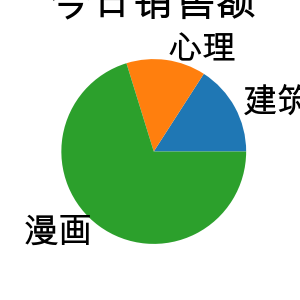
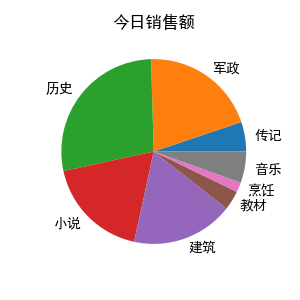
修复仓库端入库bug

diff --git a/client/BMT_client.py b/client/BMT_client.py
@@ -31,8 +31,8 @@ import time
 import sqlite3
 from matplotlib import pyplot as plt
 
-plt.rcParams['font.sans-serif'] = ['Arial Unicode MS']
-plt.rcParams['figure.dpi'] = 250
+plt.rcParams['font.sans-serif'] = ['SimHei']
+plt.rcParams['figure.dpi'] = 100
 _translate = QtCore.QCoreApplication.translate
 class main_window(QMainWindow):
     def __init__(self, parent=None):
@@ -637,7 +637,7 @@ class shop_window(QMainWindow):
             self.ui.today_profit.setStyleSheet("color:green")
         self.ui.today_profit.setText("今日利润：{}".format(today_profit))
         # 绘制图片今日销售额
-        plt.figure(figsize=(1.2,1.2))
+        plt.figure(figsize=(3,3))
         plot_data = ph_data.groupby(["books_type"])["sales_money"].agg(sum)
         plt.pie(plot_data.values,
                 labels = plot_data.index,
@@ -646,10 +646,10 @@ class shop_window(QMainWindow):
         plt.savefig('today_sales_money.png')
         plt.close()
         self.ui.today_sales_plot.setPixmap(QPixmap('today_sales_money.png'))
-        # 绘制图片今日销售额
-        plt.figure(figsize=(1.2,1.2))
-        plt.pie([100,100,100,2*sum(ph_data.sales_number),round(0.1*today_sales,2)],
-                labels = ['房租','水电','薪水','快递费','商品税'],
+        # 绘制图片今日支出
+        plt.figure(figsize=(3,3))
+        plt.pie([100,2*sum(ph_data.sales_number),100,round(0.1*today_sales,2),100],
+                labels = ['房租','快递费','水电','商品税','薪水'],
                 shadow = False)
         plt.title('今日支出')
         plt.savefig('today_pay_plot.png')
@@ -887,6 +887,20 @@ class storehouse_window(QMainWindow):
         self.ui.back.clicked.connect(self.main_window.show)
         self.ui.back.clicked.connect(self.close)
 
+        # 联系客服
+        self.ui.call_for_help.clicked.connect(self.call_for_help)
+
+
+    def call_for_help(self):
+        clipboard = QGuiApplication.clipboard()
+        clipboard.setText("huyan35@mail2.sysu.edu.cn")
+        self.ui.call_for_help.setText("已复制到剪切板")
+        self.time1 = QTimer(self)
+        self.time1.singleShot(1000,self.timer_TimeOut1)
+
+    def timer_TimeOut1(self):
+        self.ui.call_for_help.setText("联系客服(点我复制)")
+
     def add_row(self, books_type, books_name, purchase_price, current_selling_price, inventory):
         """在表格上添加一行新的内容"""
         row = self.ui.table.rowCount()  # 表格的行数
@@ -936,7 +950,6 @@ class storehouse_input_main_window(QMainWindow):
 
         # 定义入库信息
         self.ui.confirm.clicked.connect(self.inbound)
-        self.ui.confirm.clicked.connect(self.showMsg)
 
         # 定义取消按钮
         self.ui.cancel.clicked.connect(self.close)
@@ -947,63 +960,52 @@ class storehouse_input_main_window(QMainWindow):
         book_name_input = self.ui.book_name_input.text()
         purchase_price_input = self.ui.purchase_price_input.text()
         number_input = self.ui.number_input.text()
-        # 连接数据库
-        connect = sqlite3.connect('books_info.db')
-        cursor = connect.cursor()
-        # 查询是否已有此本书
-        sql = '''SELECT * FROM database WHERE books_name = ?'''
-        result = cursor.execute(sql, (book_name_input,))
-        data = result.fetchall()
-        # 有这本书，加上入库的数目
-        if len(data) > 0:
-            sql = '''UPDATE database SET inventory = inventory+? WHERE books_name = ? '''
-            cursor.execute(sql, (number_input, book_name_input,))
-        # 没有这本书名，生成新书条目
+        if book_type_input and book_name_input and purchase_price_input and number_input:
+            # 连接数据库
+            connect = sqlite3.connect('books_info.db')
+            cursor = connect.cursor()
+            # 查询是否已有此本书
+            sql = '''SELECT * FROM database WHERE books_name = ?'''
+            result = cursor.execute(sql, (book_name_input,))
+            data = result.fetchall()
+            # 有这本书，加上入库的数目
+            if len(data) > 0:
+                sql = '''UPDATE database SET inventory = inventory+? WHERE books_name = ? '''
+                cursor.execute(sql, (number_input, book_name_input,))
+            # 没有这本书名，生成新书条目
+            else:
+                sql = 'select * from database'
+                result = cursor.execute(sql)
+                data = result.fetchall()  # 生成data
+                # 写入数据
+                book_number = data[-1][1] + 1
+                book_type = book_type_input
+                book_name = book_name_input
+                purchase_price = int(purchase_price_input)
+                lowest_price = purchase_price * 1.1
+                current_selling_price = purchase_price * 2.85
+                sales_this_week = 0
+                cumulative_sales = 0
+                inventory = int(number_input)
+                cursor.execute('''INSERT INTO database(books_number,books_type,books_name,
+                purchase_price,lowest_price,current_selling_price,
+                sales_this_week,cumulative_sales,inventory)VALUES (?,?,?,?,?,?,?,?,?)''', (book_number, book_type, book_name,
+                                                                                           purchase_price, lowest_price, current_selling_price,
+                                                                                           sales_this_week, cumulative_sales, inventory,))
+            # 断开数据库
+            sql = '''SELECT * FROM database WHERE books_name = ?'''
+            result = cursor.execute(sql, (book_name_input,))
+            data = result.fetchall()
+            QMessageBox.information(self, '提醒',"{}({}){}本已加入仓库。仓库共有{}{}本。".format(data[0][3],data[0][2],number_input,data[0][3],data[0][9]))
+            connect.commit()
+            connect.close()
+            # 清空输入框
+            self.ui.book_name_input.clear()
+            self.ui.number_input.clear()
+            self.ui.book_type_input.clear()
+            self.ui.purchase_price_input.clear()
         else:
-            sql = 'select * from database'
-            result = cursor.execute(sql)
-            data = result.fetchall()  # 生成data
-            # 写入数据
-            book_number = data[-1][1] + 1
-            book_type = book_type_input
-            book_name = book_name_input
-            purchase_price = int(purchase_price_input)
-            lowest_price = purchase_price * 1.1
-            current_selling_price = purchase_price * 2.85
-            sales_this_week = 0
-            cumulative_sales = 0
-            inventory = int(number_input)
-            cursor.execute('''INSERT INTO database(books_number,books_type,books_name,
-            purchase_price,lowest_price,current_selling_price,
-            sales_this_week,cumulative_sales,inventory)VALUES (?,?,?,?,?,?,?,?,?)''', (book_number, book_type, book_name,
-                                                                                       purchase_price, lowest_price, current_selling_price,
-                                                                                       sales_this_week, cumulative_sales, inventory,))
-        # 断开数据库
-        connect.commit()
-        connect.close()
-
-    def showMsg(self):  # 设置弹窗
-        # 管理员写入信息
-        book_name_input = self.ui.book_name_input.text()
-        number_input = self.ui.number_input.text()
-        # 连接数据库
-        connect = sqlite3.connect('books_info.db')
-        cursor = connect.cursor()
-        # 查询加入书目信息
-        sql = '''SELECT * FROM database WHERE books_name = ?'''
-        result = cursor.execute(sql, (book_name_input,))
-        data = result.fetchall()
-        QMessageBox.information(self, '提醒',"{}({}){}本已加入仓库。仓库共有{}{}本。".format(data[0][3],data[0][2],number_input,data[0][3],data[0][9]))
-        # 断开数据库
-        connect.commit()
-        connect.close()
-
-        #清空输入框
-        self.ui.book_name_input.clear()
-        self.ui.number_input.clear()
-        self.ui.book_type_input.clear()
-        self.ui.purchase_price_input.clear()
-
+            QMessageBox.information(self, '提醒',"请输入完整信息", QMessageBox.Yes)
 
 class storehouse_output_main_window(QMainWindow):
     def __init__(self,parent=None):
